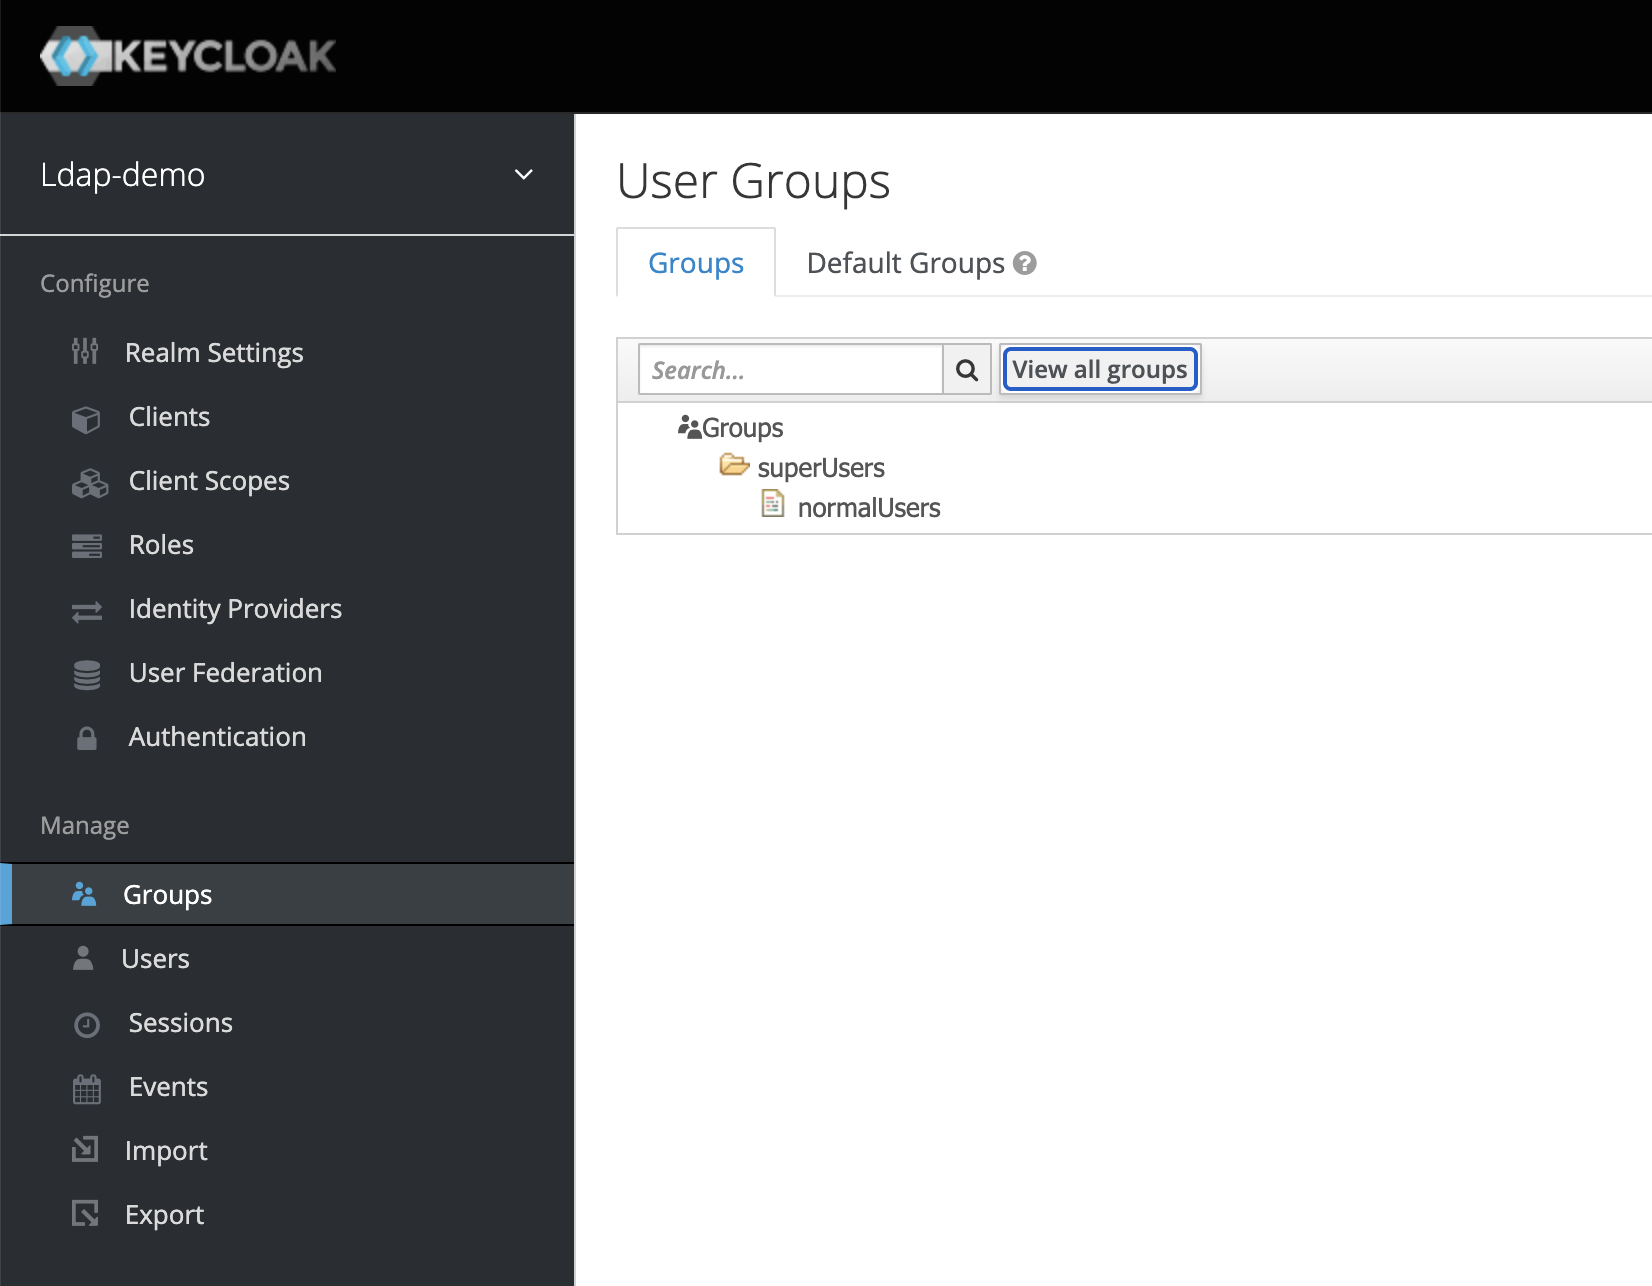
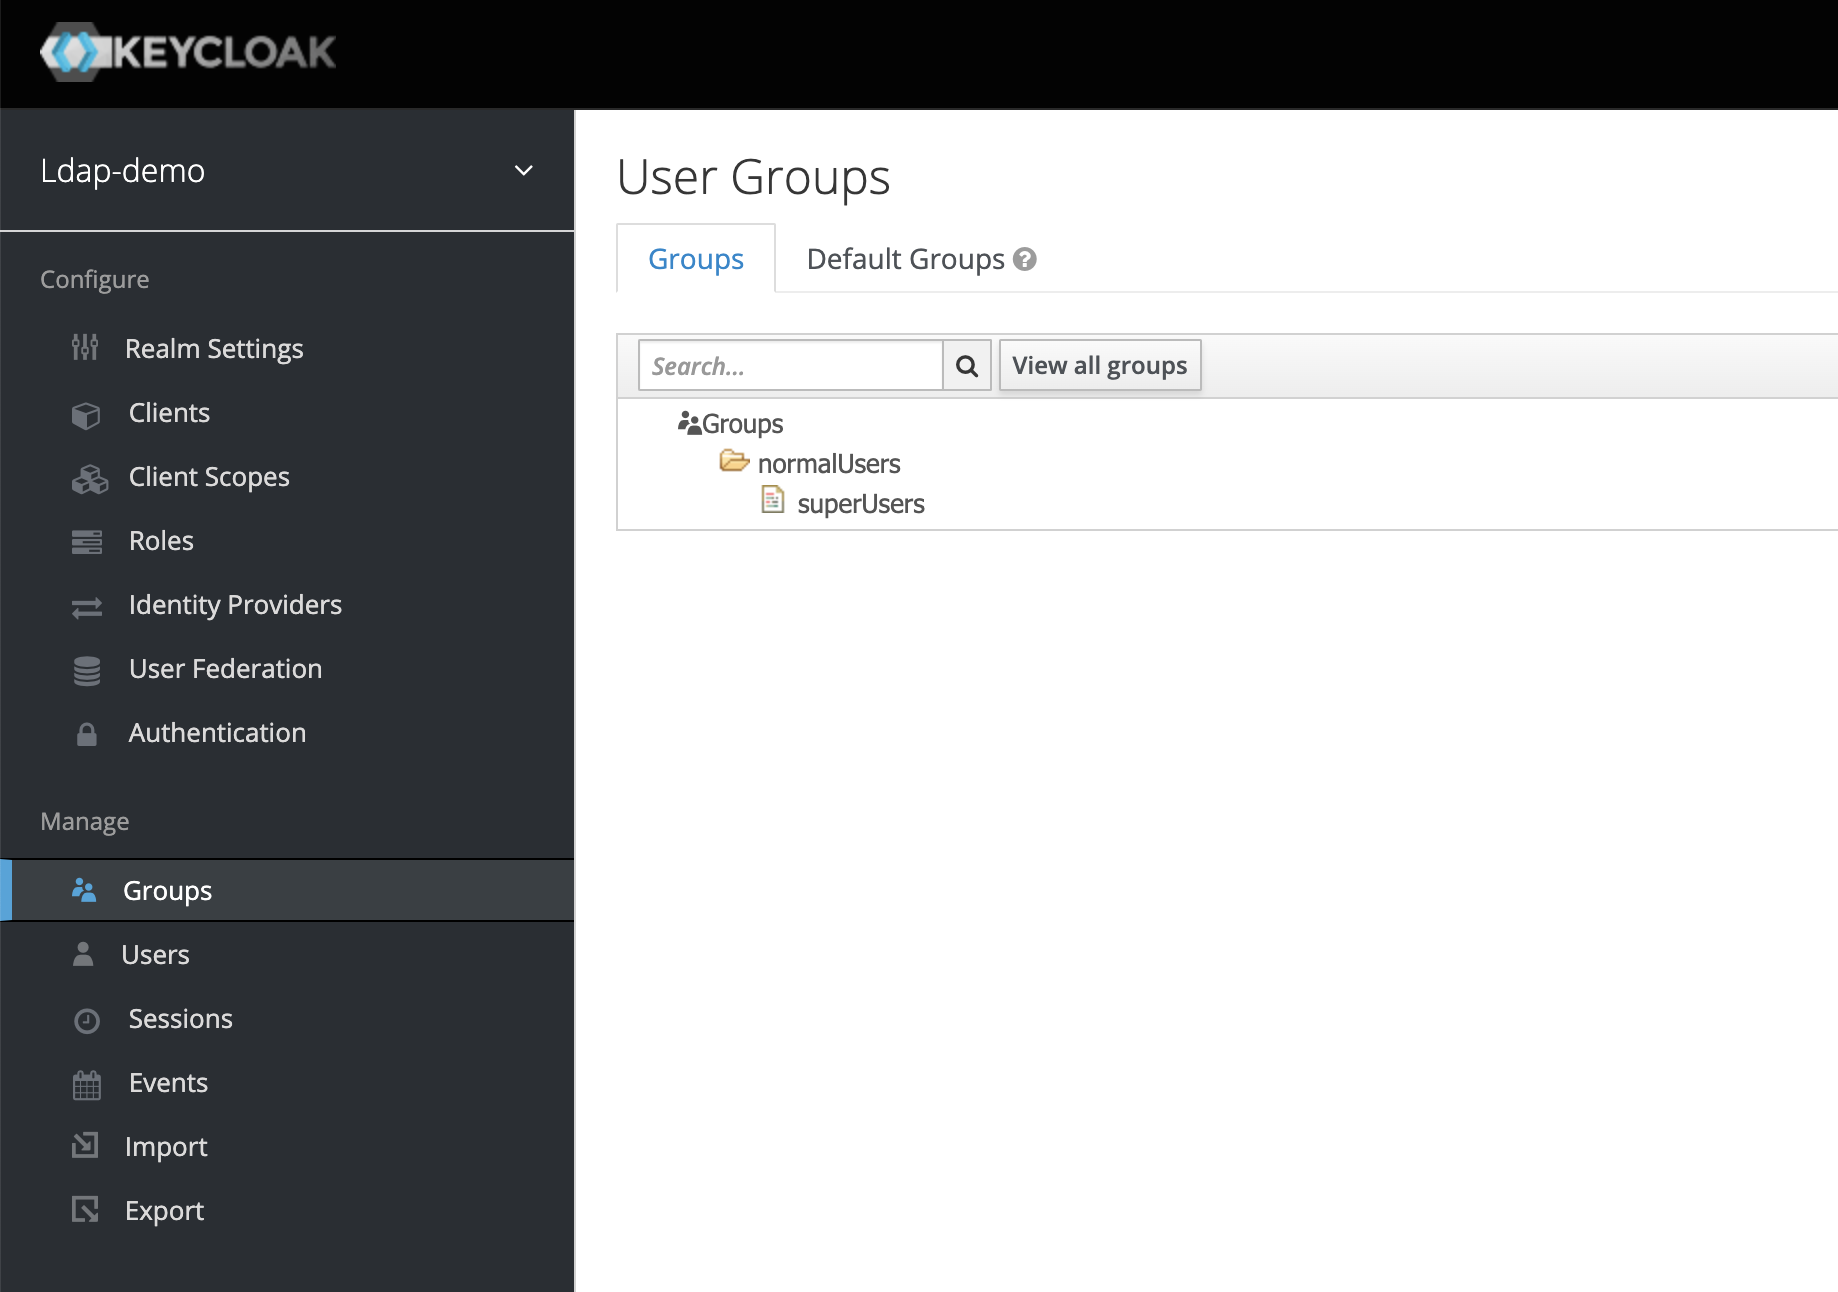
fix ldap normalUsers - superUsers groups

diff --git a/README.md b/README.md
@@ -128,6 +128,7 @@ objectclass: top
 objectclass: groupOfNames
 cn: normalUsers
 member: uid=jbrown,ou=People,dc=keycloak,dc=org
+member: cn=superUsers,ou=UserRoles,dc=keycloak,dc=org
 ```
 
 ## 3. keycloak server
